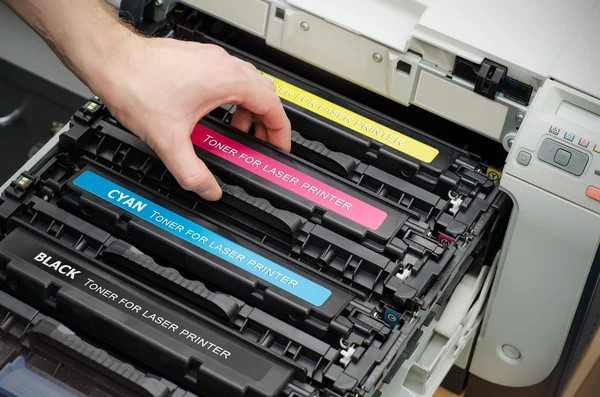
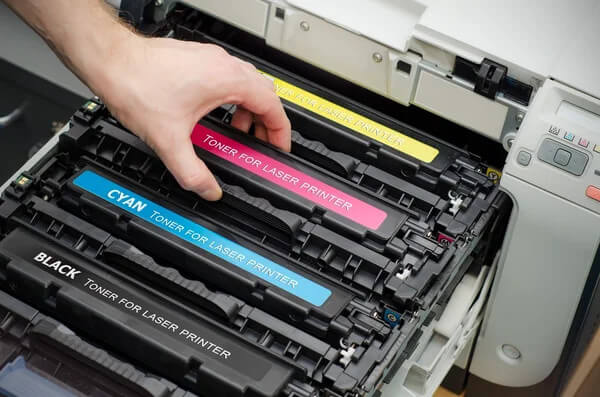
perf: compressed images

diff --git a/src/css/App.css b/src/css/App.css
@@ -760,7 +760,7 @@
   display: flex;
   justify-content: center;
   align-items: center;
-  background: url(../assets/green-bg.jpg);
+  background: url(../assets/green-bg.webp);
   background-size: cover;
   background-repeat: no-repeat;
   background-position: center;
@@ -928,7 +928,7 @@
   flex-direction: column;
   justify-content: center;
   align-items: center;
-  background: url(../assets/green-bg.jpg);
+  background: url(../assets/green-bg.webp);
   background-size: cover;
   background-repeat: no-repeat;
   background-position: center;

diff --git a/src/pages/ContactUs/_ContactUs.scss b/src/pages/ContactUs/_ContactUs.scss
@@ -13,7 +13,7 @@
     flex-direction: column;
     justify-content: center;
     align-items: center;
-    background: url(#{$assets-path}/green-bg.jpg);
+    background: url(#{$assets-path}/green-bg.webp);
     background-size: cover;
     background-repeat: no-repeat;
     background-position: center;

diff --git a/src/pages/FAQ/_FAQ.scss b/src/pages/FAQ/_FAQ.scss
@@ -14,7 +14,7 @@
     display: flex;
     justify-content: center;
     align-items: center;
-    background: url(#{$assets-path}/green-bg.jpg);
+    background: url(#{$assets-path}/green-bg.webp);
     background-size: cover;
     background-repeat: no-repeat;
     background-position: center;
